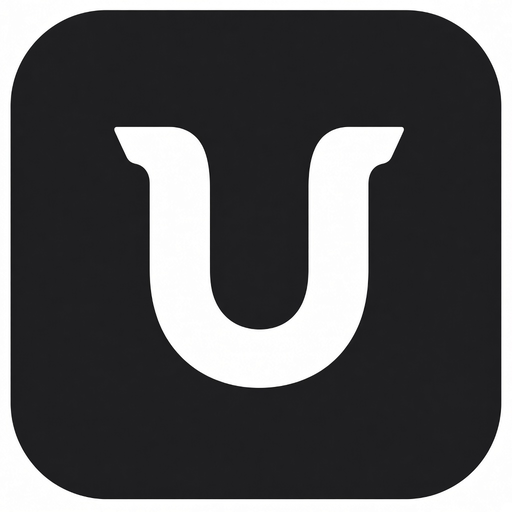
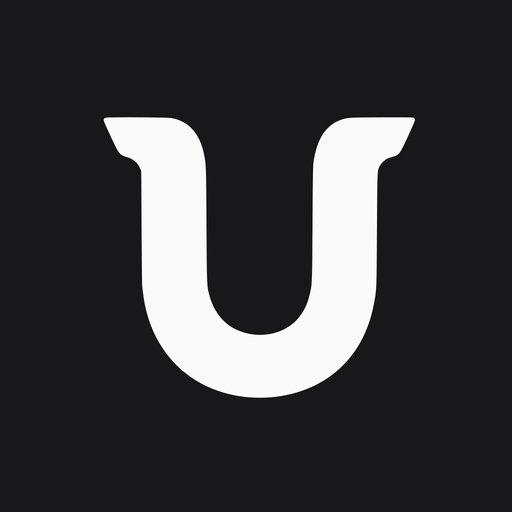
chore(branding): Syne 워드마크·플레어 U 마크를 사이트·앱에 통일
확정 마크(svg)를 아이콘·OG·favicon에 배포하고, 랜딩·문서 셸·블록·Expo 홈에 SiteBrand/UnikitMark로 연결해요.

diff --git a/apps/expo/app/index.tsx b/apps/expo/app/index.tsx
@@ -24,7 +24,7 @@ import {
   EmptyTitle,
   Input,
 } from "@unikit-bridge/ui";
-import { Pressable, SectionList, Text, View } from "@unikit-bridge/ui/primitives";
+import { Image, Pressable, SectionList, Text, View } from "@unikit-bridge/ui/primitives";
 
 import {
   CATALOG,
@@ -33,6 +33,8 @@ import {
 } from "../components/showcase/catalog";
 import { ThemeToggleButton } from "../components/theme-toggle";
 import { useIconColors } from "../lib/token-colors";
+
+const brandMark = require("../assets/images/icon.png");
 
 /** 카탈로그 항목 — 미니멀 인셋 리스트 행 */
 function CatalogRow({
@@ -131,13 +133,21 @@ export default function Index() {
           ListHeaderComponent={
             <View className="pb-2">
               <View className="mb-5 flex-row items-center justify-between pt-4">
-                <View>
-                  <Text className="font-sans text-2xl font-bold tracking-tight text-foreground">
-                    UniKit
-                  </Text>
-                  <Text className="mt-1 font-sans text-xs text-muted-foreground">
-                    React와 React Native에서 같은 컴포넌트, 같은 모습
-                  </Text>
+                <View className="min-w-0 flex-1 flex-row items-center gap-3 pr-2">
+                  <Image
+                    source={brandMark}
+                    accessibilityLabel="UniKit"
+                    className="size-11 rounded-[22%]"
+                    style={{ width: 44, height: 44, borderRadius: 10 }}
+                  />
+                  <View className="min-w-0 flex-1">
+                    <Text className="font-sans text-2xl font-bold tracking-tight text-foreground">
+                      UniKit
+                    </Text>
+                    <Text className="mt-1 font-sans text-xs text-muted-foreground">
+                      React와 React Native에서 같은 컴포넌트, 같은 모습
+                    </Text>
+                  </View>
                 </View>
                 <ThemeToggleButton />
               </View>

diff --git a/apps/web/components/showcase/docs-shell.tsx b/apps/web/components/showcase/docs-shell.tsx
@@ -17,6 +17,7 @@ import {
 import { Text, View } from "@unikit-bridge/ui/primitives";
 import { UnikitThemeProvider, useUnikitTheme } from "@unikit-bridge/ui";
 
+import { SiteBrand } from "../site/brand";
 import { catalogByCategory } from "./catalog";
 
 export function DocsProviders({ children }: { children: ReactNode }) {
@@ -75,11 +76,11 @@ function DocsHeader({ children }: { children: ReactNode }) {
       <View className="mx-auto flex h-16 w-full max-w-7xl flex-row items-center justify-between gap-3 px-4 sm:gap-4 sm:px-6 lg:px-8">
         <View className="flex min-w-0 flex-row items-center gap-3 sm:gap-4">
           {children}
-          <Link href="/" className="site-focusable shrink-0">
-            <Text className="site-display text-xl font-semibold tracking-tight text-foreground">
-              UniKit
-            </Text>
-          </Link>
+          <SiteBrand
+            className="shrink-0"
+            wordmarkClassName="text-xl"
+            markSize={30}
+          />
           <View className="hidden h-4 w-px bg-border sm:flex" />
           <View className="hidden flex-row items-center gap-4 sm:flex">
             <Link href="/" className={navLinkClass(pathname === "/")}>
@@ -405,7 +406,7 @@ export function DemoPanel({
               onClick={() => onChange(id)}
               className={
                 active
-                  ? "site-focusable rounded-md bg-background px-3 py-1.5 font-sans text-xs font-medium text-foreground shadow-sm"
+                  ? "site-focusable rounded-md bg-background px-3 py-1.5 font-sans text-xs font-medium text-foreground"
                   : "site-focusable rounded-md px-3 py-1.5 font-sans text-xs text-muted-foreground transition-colors hover:text-foreground"
               }
             >

diff --git a/apps/web/components/site/landing.tsx b/apps/web/components/site/landing.tsx
@@ -41,6 +41,7 @@ import {
   UnikitThemeProvider,
   useUnikitTheme,
 } from "@unikit-bridge/ui";
+import { SiteBrand, UnikitMark } from "./brand";
 
 /** Hero·TeaserSection 공통 CTA 링크 클래스 — 문자열이 같아 상수로 공유(한쪽만 고치면 외관이 갈라진다) */
 const CTA_PRIMARY_CLASS =
@@ -67,12 +68,7 @@ function SiteNav() {
   return (
     <header className="border-b border-border/80">
       <div className="mx-auto flex h-16 w-full max-w-7xl items-center justify-between gap-4 px-4 sm:px-6 lg:px-8">
-        <Link
-          href="/"
-          className="site-display site-focusable text-lg font-semibold tracking-tight text-foreground"
-        >
-          UniKit
-        </Link>
+        <SiteBrand />
         <nav className="flex items-center gap-3 text-sm">
           <Link
             href="/blocks"
@@ -105,9 +101,15 @@ function Hero() {
   return (
     <section className="border-b border-border/60 py-14 sm:py-16 lg:py-20">
       <div className="mx-auto max-w-7xl px-4 sm:px-6 lg:px-8">
-        <p className="site-display text-5xl font-semibold tracking-tight text-foreground sm:text-6xl md:text-7xl">
-          UniKit
-        </p>
+        <div className="flex items-center gap-4 sm:gap-5">
+          <UnikitMark
+            size={96}
+            className="size-16 sm:size-20 md:size-24"
+          />
+          <p className="site-display text-5xl font-semibold tracking-tight text-foreground sm:text-6xl md:text-7xl">
+            UniKit
+          </p>
+        </div>
         <h1 className="mt-4 max-w-3xl text-xl font-medium leading-snug tracking-tight text-foreground sm:text-2xl md:text-3xl">
           한 import로, 웹과 네이티브가 같은 화면.
         </h1>

diff --git a/apps/web/components/blocks/block-chrome.tsx b/apps/web/components/blocks/block-chrome.tsx
@@ -5,7 +5,7 @@
  * - BlockThemeToggle: 화면 안 테마 전환 — UnikitThemeProvider가
  *   defaultColorScheme="light" 고정이라 시스템 설정과 무관하게 직접 전환해야
  *   한다. 기본은 우측 상단 고정(알약과 좌우 대칭).
- * - BrandMark: "U" 브랜드 마크 + 라벨 행(어시스턴트 셸·로그인·대시보드가
+ * - BrandMark: 확정 U 마크 + 라벨 행(어시스턴트 셸·로그인·대시보드가
  *   같은 마크를 쓴다).
  * 헤더 바가 있는 블록(대시보드)은 floating={false}로 헤더 안에 배치한다 —
  * 고정 알약이 사이드바 토글을 덮지 않게 한다.
@@ -15,6 +15,7 @@ import { ArrowLeft, Moon, Sun } from "lucide-react";
 import { Button, useUnikitTheme } from "@unikit-bridge/ui";
 import { Text, View } from "@unikit-bridge/ui/primitives";
 import { cn } from "@unikit-bridge/ui";
+import { UnikitMark } from "../site/brand";
 
 export function BackToBlocks({ floating = true }: { floating?: boolean }) {
   return (
@@ -62,9 +63,7 @@ export function BrandMark({
 }) {
   return (
     <View className={cn("flex flex-row items-center gap-2", className)}>
-      <Text className="flex size-7 shrink-0 items-center justify-center rounded-md bg-primary font-sans text-sm font-bold text-primary-foreground">
-        U
-      </Text>
+      <UnikitMark size={28} />
       <Text className="font-sans text-sm font-semibold tracking-tight text-foreground">
         {label}
       </Text>

diff --git a/apps/web/components/site/brand.tsx b/apps/web/components/site/brand.tsx
@@ -1,0 +1,58 @@
+/**
+ * 사이트 브랜드 마크 — branding/svg/mark-u.svg 와 동일 실루엣.
+ * 랜딩·문서 셸·블록 BrandMark가 같은 마크를 쓴다.
+ */
+import Link from "next/link";
+import { cn } from "@unikit-bridge/ui";
+
+export function UnikitMark({
+  size = 28,
+  className,
+}: {
+  size?: number;
+  className?: string;
+}) {
+  return (
+    <img
+      src="/brand/mark-u.svg"
+      alt=""
+      width={size}
+      height={size}
+      className={cn("shrink-0 rounded-[22%] object-cover", className)}
+      aria-hidden
+    />
+  );
+}
+
+/** 마크 + Syne 워드마크 — 헤더·히어로 공통 */
+export function SiteBrand({
+  href = "/",
+  className,
+  markSize = 28,
+  wordmarkClassName,
+}: {
+  href?: string;
+  className?: string;
+  markSize?: number;
+  wordmarkClassName?: string;
+}) {
+  return (
+    <Link
+      href={href}
+      className={cn(
+        "site-focusable inline-flex items-center gap-2.5 text-foreground",
+        className
+      )}
+    >
+      <UnikitMark size={markSize} />
+      <span
+        className={cn(
+          "site-display font-semibold tracking-tight",
+          wordmarkClassName ?? "text-lg"
+        )}
+      >
+        UniKit
+      </span>
+    </Link>
+  );
+}

diff --git a/branding/README.md b/branding/README.md
@@ -1,16 +1,19 @@
 # UniKit brand assets
 
-워드마크는 사이트 디스플레이 폰트와 같은 **Syne Bold**(SIL OFL 1.1 — BI/로고 사용 가능).
-마크는 Syne 비율을 닮은 커스텀 **U**(오른쪽 끝이 더 올라가고, 끝은 살짝 바깥으로)라 평평한 글자 U보다 표정이 있어요.
-부제: **Public Sans**(OFL).
+확정 BI:
+
+- **워드마크**: 사이트 디스플레이와 같은 **Syne Bold**(SIL OFL 1.1 — 로고 사용 가능)
+- **마크**: 끝만 바깥·위로 올린 커스텀 **U** (`svg/mark-u.svg`가 단일 출처)
+- **부제**: **Public Sans**(OFL) — `One import. Web and native.`
 
 | 파일 | 용도 |
 |---|---|
+| `svg/mark-u.svg` | 마크 원본 |
 | `icon-1024.png` | 앱 아이콘 |
 | `icon-tile.png` | 배너용 타일(배경만 살짝 밝게) |
 | `banner-og.png` | Open Graph (2400×1350) |
 | `banner-readme.png` | README 배너 (1280×720) |
-| `mark-master-source.jpg` | U 마크 원본 |
-| `fonts/Syne.ttf` · `Syne-Bold.ttf` · `Syne-ExtraBold.ttf` · `PublicSans.ttf` | BI 렌더용(OFL) |
+| `fonts/Syne*.ttf` · `PublicSans.ttf` | BI 렌더용(OFL) |
 
 배포 사본: Expo `apps/expo/assets/images/`, Web `apps/web/public/brand/` · `app/favicon.ico`.
+웹 UI는 `SiteBrand` / `UnikitMark`(`apps/web/components/site/brand.tsx`)가 `/brand/mark-u.svg`를 씁니다.
